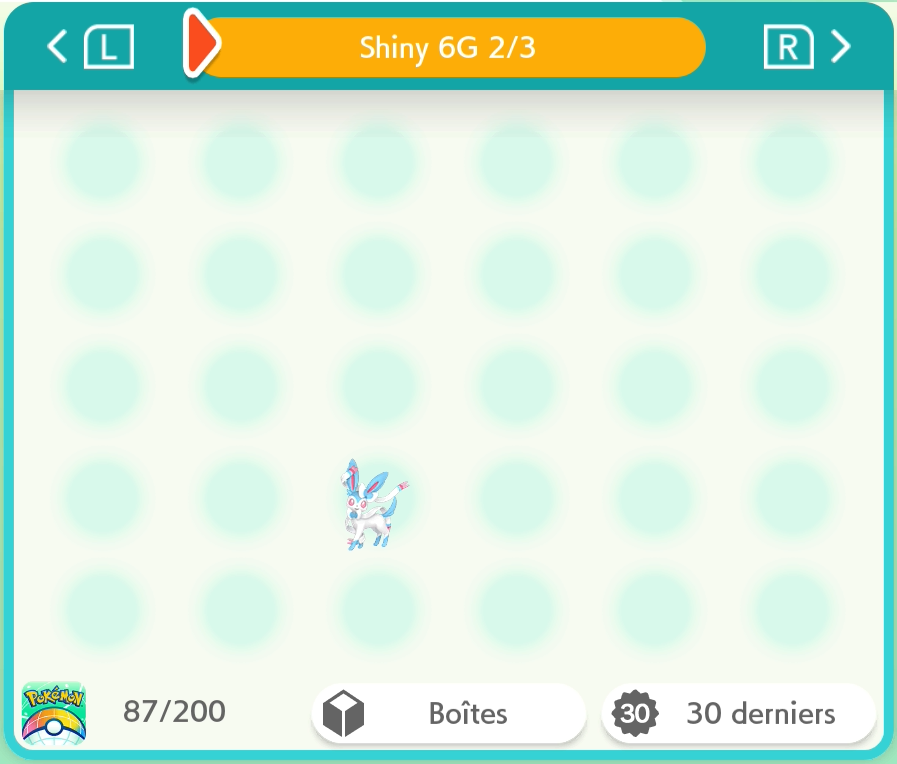
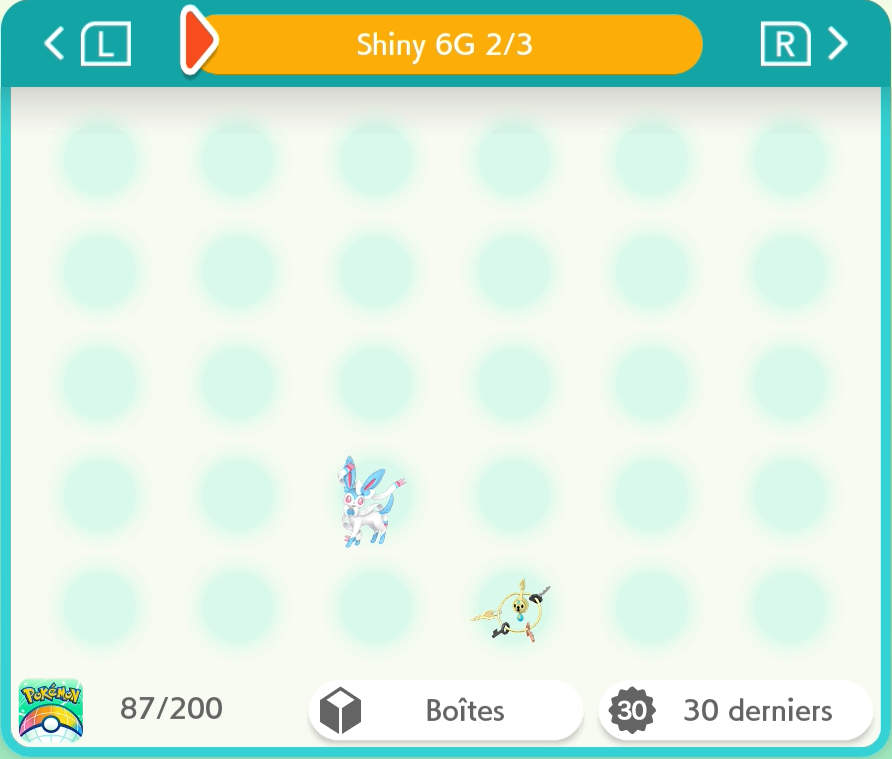
6G : Trousselin | 8G : Berserkatt | Forme de Galar : Miaouss

diff --git a/README.md b/README.md
@@ -2,8 +2,8 @@
 
 Pokémon-Elément-Sh -> <a href="https://www.pokemon-element-sh.fr/profil/karyno21" target="_blank">Karyno21</a>
 
-↓ Dernière Update le 29/05/2026 à 5h01 ↓
-### Dex National [248/999] +12
+↓ Dernière Update le 29/05/2026 à 7h03 ↓
+### Dex National [250/999] +14
 
 | Gen | Prog | Notes |
 |:--:|:--:|---|
@@ -12,17 +12,17 @@ Pokémon-Elément-Sh -> <a href="https://www.pokemon-element-sh.fr/profil/karyno
 |3G|20/135|+1 Mysdibule|
 |4G|20/107||
 |5G|26/154||
-|6G|21/70||
+|6G|22/70|+1 Trousselin|
 |7G|16/84|J'ai deux Meltan Shiny mais impossible de le faire évolué en Melmétal... (pas compté)|
-|8G|28/90|+6 Distrib Zacian & Éthernatos, Fantyrm, Dispareptil, Lanssorien & M.Glaquette|
+|8G|29/90|+7 Distrib Zacian & Éthernatos, Fantyrm, Dispareptil, Lanssorien, M.Glaquette & Berserkatt|
 |9G|43/108|+1 Terraiste|
 
-### Formes Régionales [46/58] +27
+### Formes Régionales [47/58] +28
 
 | Forme | Prog | Notes |
 |:--:|:--:|---|
 |Alola|18/18|+17 Complété (Familles de Rattata / Goupix / Racaillou / Sabelette / Tadmorv / Taupiqueur & Miaouss, Raichu & Noadkoko)|
-|Galar|7/19|+7 Famille de Ramoloss, Distrib des oiseaux légendaire de Galar & M.Mime|
+|Galar|8/19|+8 Famille de Ramoloss, Distrib des oiseaux légendaire de Galar, M.Mime & Miaouss|
 |Hisui|17/17|Complété|
 |Paldea|4/4|+3 Complété Axoloto, Tauros Aquatique & Flamboyant|
 
